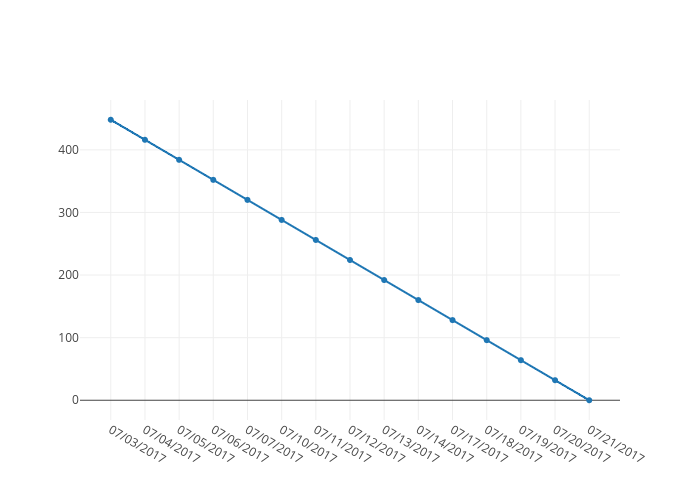
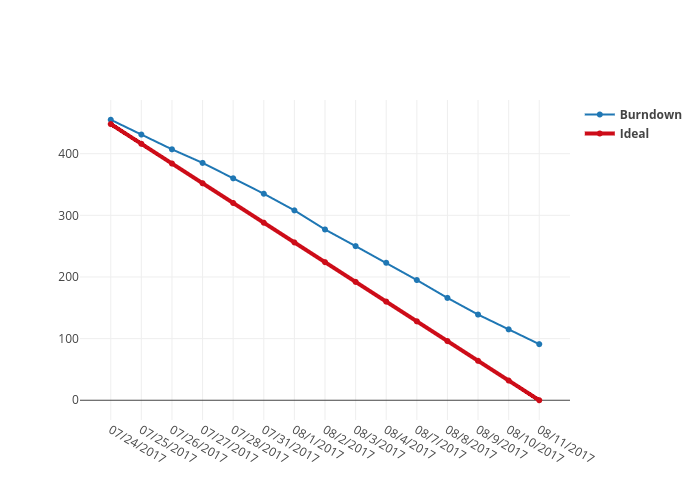
Added ideal line for burndown

diff --git a/Milestone2/Python/Scripts/burndown.py b/Milestone2/Python/Scripts/burndown.py
@@ -12,7 +12,8 @@ import s3
 current_path = os.path.dirname(os.path.realpath("__file__"))
 
 def parse_json_for_burndown(query_id):
-    file = open(os.path.join(current_path,'../../Austin_Mock/mockData.json'), 'r')
+    current_path = os.path.dirname(os.path.realpath("__file__"))
+    file = open(os.path.join(current_path,'../../../AustinBot/mockData.json'), 'r')
     mock = json.load(file)
     sprints = mock["sprint"]
     for sprint in sprints:
@@ -42,21 +43,34 @@ def parse_json_for_burndown(query_id):
         y.append(hours_left)
     #print(x)
     #print(y)
-    return [x,y]
+    each_day = total_hours/len(x)
+    hours_left = total_hours
+    y_ideal = []
+    for i in x:
+        hours_left -= each_day
+        y_ideal.append(hours_left)
+    return [x,y, y_ideal]
 
-def plot_burndown(x, y):
+def plot_burndown(x, y, y_ideal):
     plotly.tools.set_credentials_file(username='udeshmu', api_key='qIyD3uwDHJdtNvjSsFyS')
     trace1 = go.Scatter(
         x = x,
         y = y,
-        name = '<b>No</b> Gaps', # Style name/legend entry with html tags
+        name = '<b>Burndown</b>', # Style name/legend entry with html tags
         connectgaps=True
     )
-    data = [trace1]
+    trace2 = go.Scatter(
+        x = x,
+        y = y_ideal,
+        name = '<b>Ideal</b>', # Style name/legend entry with html tags
+        connectgaps=True,
+        line = dict(color = ('rgb(205, 12, 24)'),width = 4)
+    )
+    data = [trace1, trace2]
     fig = dict(data=data)
     py.image.save_as(fig, filename=os.path.join(current_path,'../Plots/burndown.png'))
     return fig
 
-[x,y] = parse_json_for_burndown(20)
-fig=plot_burndown(x,y)
+[x,y,y_ideal] = parse_json_for_burndown("21")
+fig=plot_burndown(x,y,y_ideal)
 s3.save_file_to_s3('burndown.png')
